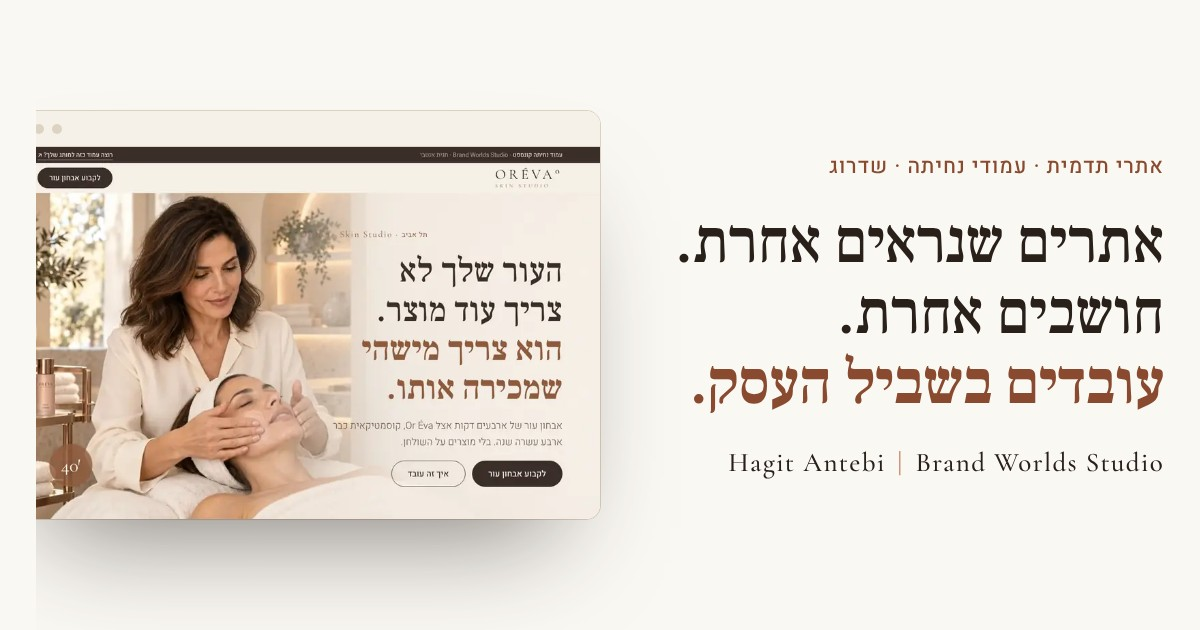
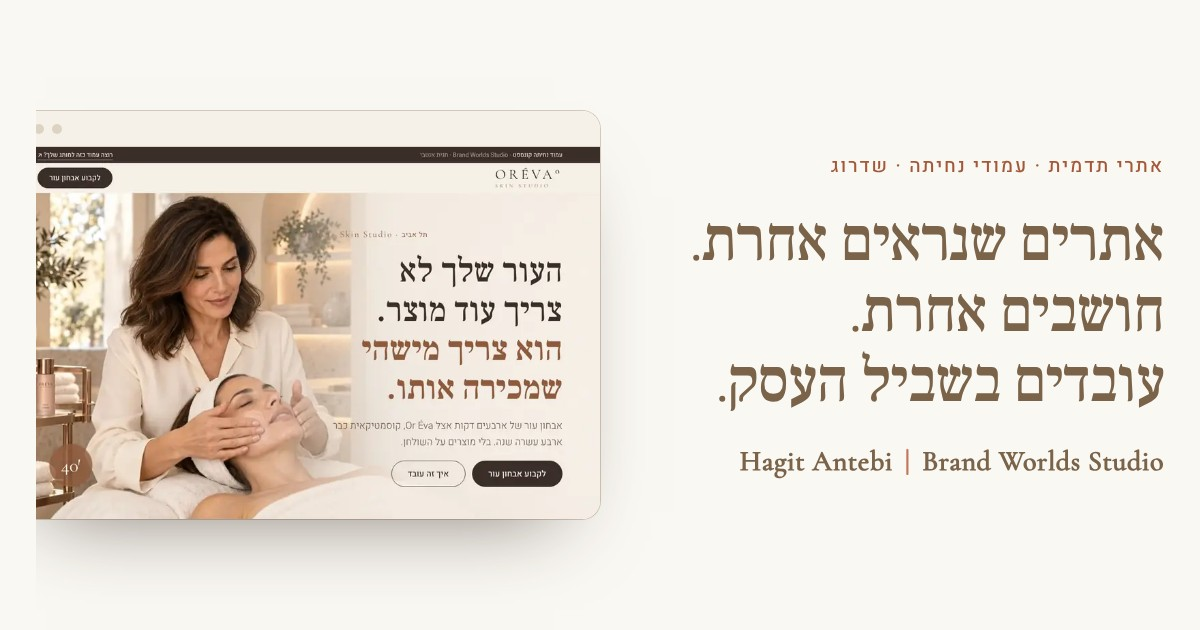
/sites/: the studio's own colours, type and cards
The page had drifted toward ORÉVA°'s look: near-black headings with a bold
copper second line, dark bands, pill buttons. It now follows the home page:
chocolate headings in the display face, Plus Jakarta labels, white bordered
cards, square buttons, light bands with only the footer deep. The logo is the
home page's mark. The share image follows the same look.

Claude-Session: https://claude.ai/code/session_01Uv8GeiEiuoeYrf3v4qwTDy

diff --git a/sites/index.html b/sites/index.html
@@ -292,6 +292,101 @@ footer .sig{font-family:var(--latin);font-size:18px;letter-spacing:.06em;directi
 .dock{position:fixed;inset:auto 0 0;z-index:20;display:none;align-items:center;justify-content:space-between;gap:12px;background:#FAF8F3f5;border-top:1px solid var(--line);padding:10px var(--gr) calc(10px + env(safe-area-inset-bottom,0px)) var(--gl);font-size:14px;color:var(--text)}
 .dock .btn{min-height:44px;padding:0 20px;font-size:16px}
 
+
+/* the studio's own look: the home page's tokens, type and cards */
+:root{--ink:#7A6349; --text:#7A6349; --muted:#786A5E; --deep:#4F372C; --copper-deep:#A45839; --line:#D4C9BC; --sand:#EFE8DC;
+  --display:"Cormorant Garamond","Frank Ruhl Libre",serif; --en:"Plus Jakarta Sans","Heebo",sans-serif}
+body{color:var(--text);line-height:1.7}
+h1,h2,h3{font-family:var(--display);font-weight:500;color:var(--ink)}
+h1,h2{letter-spacing:-1px}
+h1 b,h2 b,.hero h1 span:nth-child(3) i{font-weight:inherit;color:inherit}
+.eye{font-family:var(--en);font-size:12px;font-weight:600;letter-spacing:3px;text-transform:uppercase;color:var(--copper-deep)}
+.eye b{font-family:var(--body);font-size:13px;font-weight:500;letter-spacing:.08em}
+.head{align-items:center;text-align:center;margin-inline:auto;max-width:44em}
+.head p{color:var(--muted);max-width:34em}
+.btn{border-radius:0;border-color:var(--ink);background:var(--ink);color:var(--cream);font-weight:500;letter-spacing:.03em}
+.btn:hover{background:var(--deep);border-color:var(--deep);transform:none}
+.btn.line{background:transparent;color:var(--ink)}
+.btn.line:hover{background:var(--ink);color:var(--cream)}
+.logo{font-family:var(--display);font-size:25px;font-weight:600;letter-spacing:.02em;color:var(--ink);display:inline-flex;align-items:center;gap:12px;direction:ltr}
+.logo .mark{width:30px;height:30px;display:block}
+.logo .mark svg{width:100%;height:100%;display:block}
+.hero h1{font-weight:400}
+.lead{color:var(--text)}
+.frame,.mock{border-radius:18px;box-shadow:0 18px 40px -30px #2b1a1259,0 0 0 1px var(--line)}
+
+/* five seconds: a light band, like the rest of the site */
+.moments{background:var(--beige);color:var(--text)}
+.moments h2{color:var(--ink)}
+.moments p{color:var(--muted)}
+.moments .eye{color:var(--copper-deep)!important}
+.timer::before{background:var(--line)}
+.timer span{color:var(--muted)}
+.three li{border-top-color:var(--line);font-family:var(--display);color:#7a634959}
+.three li b{font-family:var(--display);color:var(--copper-deep)}
+@keyframes lit{0%,8%{color:#7a634959}14%,100%{color:var(--ink)}}
+@keyframes lit2{0%,34%{color:#7a634959}40%,100%{color:var(--ink)}}
+@keyframes lit3{0%,60%{color:#7a634959}66%,100%{color:var(--ink)}}
+.asks li{font-family:var(--display);color:var(--ink)}
+.eg{color:var(--ink);text-align:center}
+.mock figcaption b,.site h4{font-family:var(--display);color:var(--ink)}
+.pair .mock:last-child figcaption b{color:var(--copper-deep)}
+.site .go{border-radius:0;background:var(--ink)}
+.snav b{color:var(--ink)}
+.q{border-color:var(--copper);color:var(--copper-deep)}
+
+/* the three services: the home page's "door" cards */
+.two{gap:clamp(16px,2.2vw,28px);border-top:0}
+.svc,.svc+.svc,.svc:last-child{background:#fff;border:1px solid var(--line);border-radius:18px;padding:clamp(26px,3vw,36px);box-shadow:0 18px 40px -30px #2b1a1259}
+.svc:first-child{border-color:var(--copper)}
+.svc .dia i{border-color:var(--line);background:var(--cream);border-radius:4px}
+.svc .dia i.on{background:var(--copper);border-color:var(--copper)}
+.svc .one{font-family:var(--display);color:var(--ink)}
+.svc p{color:var(--muted)}
+.fits li{border-color:var(--line);color:var(--text);font-size:15px}
+.price{border-top-color:var(--line)}
+.price b{font-family:var(--display);font-weight:600;color:var(--copper-deep)}
+.pnote{text-align:center}
+
+.proof{background:var(--beige)}
+.case .kind{font-family:var(--body);color:var(--copper-deep)}
+.case .dec{font-family:var(--display);color:var(--ink);border-inline-start-color:var(--copper)}
+.case li{position:relative;padding-inline-start:20px;border-top-color:var(--line)}
+.case li:last-child{border-bottom-color:var(--line)}
+.case li::before{content:"";position:absolute;inset-inline-start:0;top:1.25em;width:7px;height:7px;border-radius:50%;background:var(--copper)}
+.case a.more{color:var(--copper-deep);font-weight:600;border-bottom:0}
+.steps b{font-family:var(--display);font-weight:600;color:var(--copper-deep)}
+.steps p,.who .txt p,.next p{color:var(--muted)}
+.who .big{font-family:var(--display);color:var(--ink)}
+.who figure{border-radius:18px}
+.next{gap:clamp(16px,2.2vw,28px);border-top:0}
+.next li,.next li+li,.next li:last-child{background:#fff;border:1px solid var(--line);border-radius:18px;padding:clamp(24px,2.6vw,32px)}
+.depth{background:var(--beige)}
+.depth p{color:var(--text)}
+.depth a{color:var(--copper-deep);font-weight:600;border-bottom:0}
+.faq summary{font-family:var(--display);color:var(--ink)}
+.faq summary::after{color:var(--copper-deep)}
+.faq{margin-inline:auto}
+
+/* the closing band is light, as on the home page; only the footer is deep */
+.talk{background:var(--beige);color:var(--text)}
+.talk h2{color:var(--ink)}
+.moments h2 b,.talk h2 b{color:inherit}
+.talk .txt p{color:var(--muted)}
+.talk .eye{color:var(--copper-deep)!important}
+form{background:#fff;border:1px solid var(--line);border-radius:18px;box-shadow:0 18px 40px -30px #2b1a1259}
+label,legend{color:var(--ink)}
+.chip input:checked+span{background:var(--ink);border-color:var(--ink)}
+footer{background:var(--deep);color:#E9DFD2}
+footer .in{border-top:0}
+footer .sig{font-family:var(--display)}
+.dock .btn{border-radius:0}
+@media (max-width:900px){
+  .svc,.svc+.svc{padding:26px;border:1px solid var(--line)}
+  .svc:first-child{border-color:var(--copper)}
+  .next li,.next li+li{padding:24px;border:1px solid var(--line)}
+  .two,.next{gap:16px}
+}
 @supports (animation-timeline:view()){
   @media (prefers-reduced-motion:no-preference){
     .rv{animation:up linear both;animation-timeline:view();animation-range:entry 0% entry 40%}
@@ -335,7 +430,7 @@ form small a,footer a{color:inherit}
 <div dir="rtl" lang="he" id="page">
 
 <header class="top"><div class="in">
-  <a class="logo" href="#page">Hagit Antebi<i>|</i><span>Brand Worlds Studio</span></a>
+  <a class="logo" href="#page"><span class="mark" aria-hidden="true"><svg xmlns="http://www.w3.org/2000/svg" viewBox="0 0 701 701" preserveAspectRatio="xMidYMid meet"> <g transform="translate(0.000000,701.000000) scale(0.100000,-0.100000)" fill="currentColor"> <path d="M3305 6604 c-182 -18 -259 -29 -388 -55 -1227 -248 -2210 -1310 -2401 -2596 -93 -617 19 -1286 311 -1868 84 -168 83 -167 83 -49 0 414 256 789 686 1003 287 142 508 197 1634 406 948 175 1140 223 1457 360 779 337 1131 985 906 1668 -181 550 -849 1002 -1643 1112 -109 16 -550 28 -645 19z m509 -349 c567 -66 1071 -309 1320 -635 269 -352 245 -836 -58 -1157 -146 -155 -390 -311 -573 -367 l-23 -7 -2 723 c-3 711 -3 724 -24 763 -66 126 -267 134 -350 13 l-29 -41 -5 -796 -5 -796 -110 -23 c-214 -45 -1050 -199 -1057 -195 -5 2 -8 408 -8 901 l0 897 -23 40 c-77 136 -279 133 -357 -5 l-25 -45 -3 -936 -2 -936 -88 -17 c-738 -145 -1178 -353 -1433 -676 l-64 -82 -17 84 c-94 453 -67 950 74 1388 406 1257 1600 2053 2862 1905z"/> <path d="M5830 5597 c0 -5 5 -18 11 -29 6 -11 20 -52 31 -92 267 -957 -313 -1826 -1453 -2176 -280 -86 -473 -128 -1236 -269 -700 -130 -818 -154 -998 -201 -546 -141 -835 -351 -967 -701 -47 -124 -49 -368 -4 -499 77 -228 229 -422 486 -621 1356 -1051 3332 -725 4287 706 108 162 224 366 266 470 9 22 30 74 47 115 176 422 246 810 237 1320 -12 689 -209 1291 -608 1850 -85 120 -98 137 -99 127z m304 -1362 c205 -982 -15 -1877 -641 -2606 -628 -732 -1659 -1050 -2633 -813 -326 80 -729 280 -990 491 -328 266 -431 521 -310 767 101 205 333 337 770 439 l145 34 5 -541 c5 -587 3 -559 64 -624 95 -102 262 -76 327 50 18 35 19 67 19 613 l0 575 23 9 c12 4 92 20 177 35 206 37 640 120 818 156 79 17 147 30 152 30 6 0 10 -259 10 -694 l0 -694 33 -48 c84 -127 263 -126 342 1 l30 48 5 749 5 749 140 48 c737 254 1237 693 1431 1256 20 58 40 103 45 98 4 -3 0 -12 -8 -22z"/> </g> </svg></span>Hagit Antebi</a>
   <a class="btn" href="#talk">בואו נדבר</a>
 </div></header>
 
@@ -343,7 +438,6 @@ form small a,footer a{color:inherit}
   <div class="copy">
     <span class="eye">Sites · <b>אתרי תדמית ועמודי נחיתה</b></span>
     <h1><span><i>אתרים שנראים אחרת.</i></span><span><i>חושבים אחרת.</i></span><span><i>עובדים בשביל העסק.</i></span></h1>
-    <div class="rule" id="rule" aria-hidden="true"></div>
     <p class="lead">אתר תדמית או עמוד נחיתה שנבנים מתוך הבנה של העסק, של הלקוחות ושל ההחלטה שרוצים להניע.</p>
     <div class="cta"><a class="btn" href="#talk">בואו נדבר על האתר שלכם</a><a class="btn line" href="#proof">לראות דוגמאות</a></div>
     <small>אסטרטגיה, עיצוב מוקפד וחוויית משתמש שמובילה לפעולה.</small>
@@ -362,7 +456,7 @@ form small a,footer a{color:inherit}
 
 <section class="moments sec" id="moments"><div class="in">
   <div>
-    <span class="eye" style="color:#E5A88F">Five seconds</span>
+    <span class="eye">Five seconds</span>
     <h2 style="margin-block:14px 20px">אתר טוב גורם ללקוחות להבין <b>תוך רגעים</b> שלושה דברים.</h2>
     <p>הוא צריך להיראות נכון, להרגיש נכון ולעבוד נכון. האתר שלכם הוא המקום שבו לקוחות פוגשים את העסק, מגבשים רושם ראשוני ומחליטים אם להמשיך איתכם.</p>
   </div>
@@ -529,7 +623,7 @@ form small a,footer a{color:inherit}
 
 <section class="talk sec" id="talk"><div class="in">
   <div class="txt rv">
-    <span class="eye" style="color:#E5A88F">Let's talk</span>
+    <span class="eye">Let's talk</span>
     <h2>יש לכם עסק טוב. <b>הגיע הזמן שגם האתר יספר את זה.</b></h2>
     <p>בין אם צריך עמוד נחיתה מדויק לקמפיין, אתר תדמית חדש או שדרוג של האתר הקיים, נתחיל בשיחת התאמה קצרה ונבין מה נכון לעסק שלכם.</p>
   </div>
